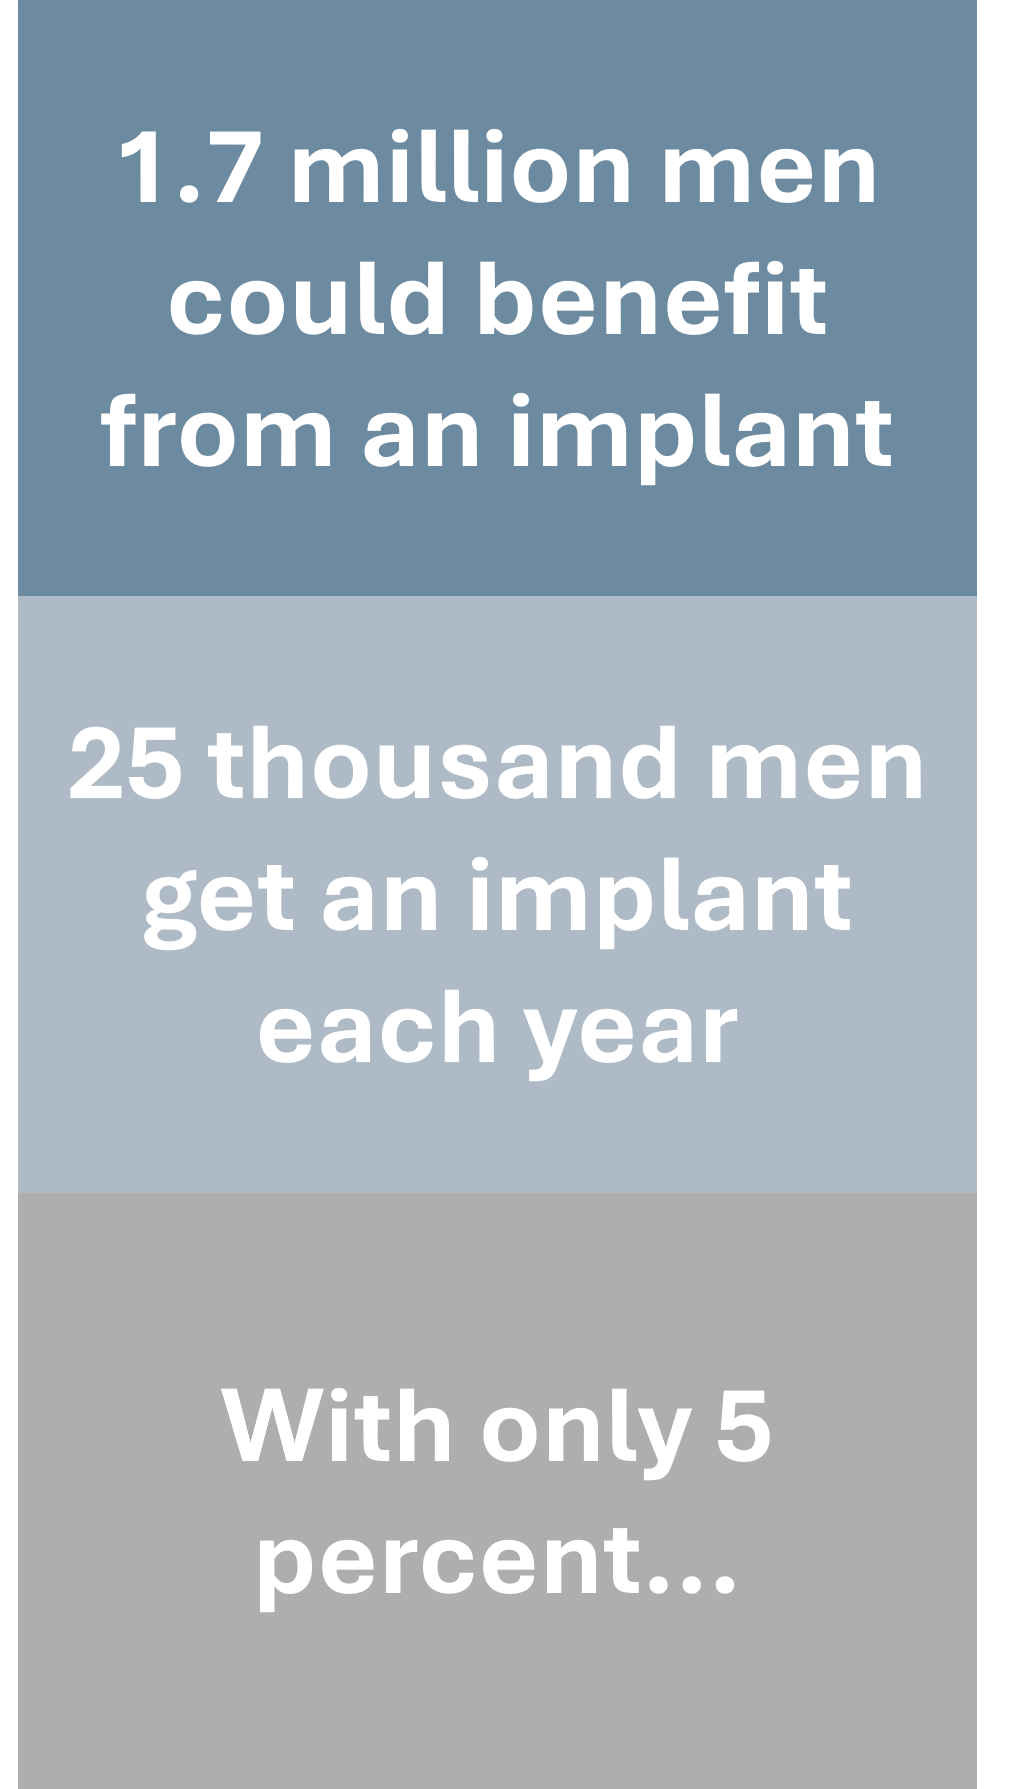
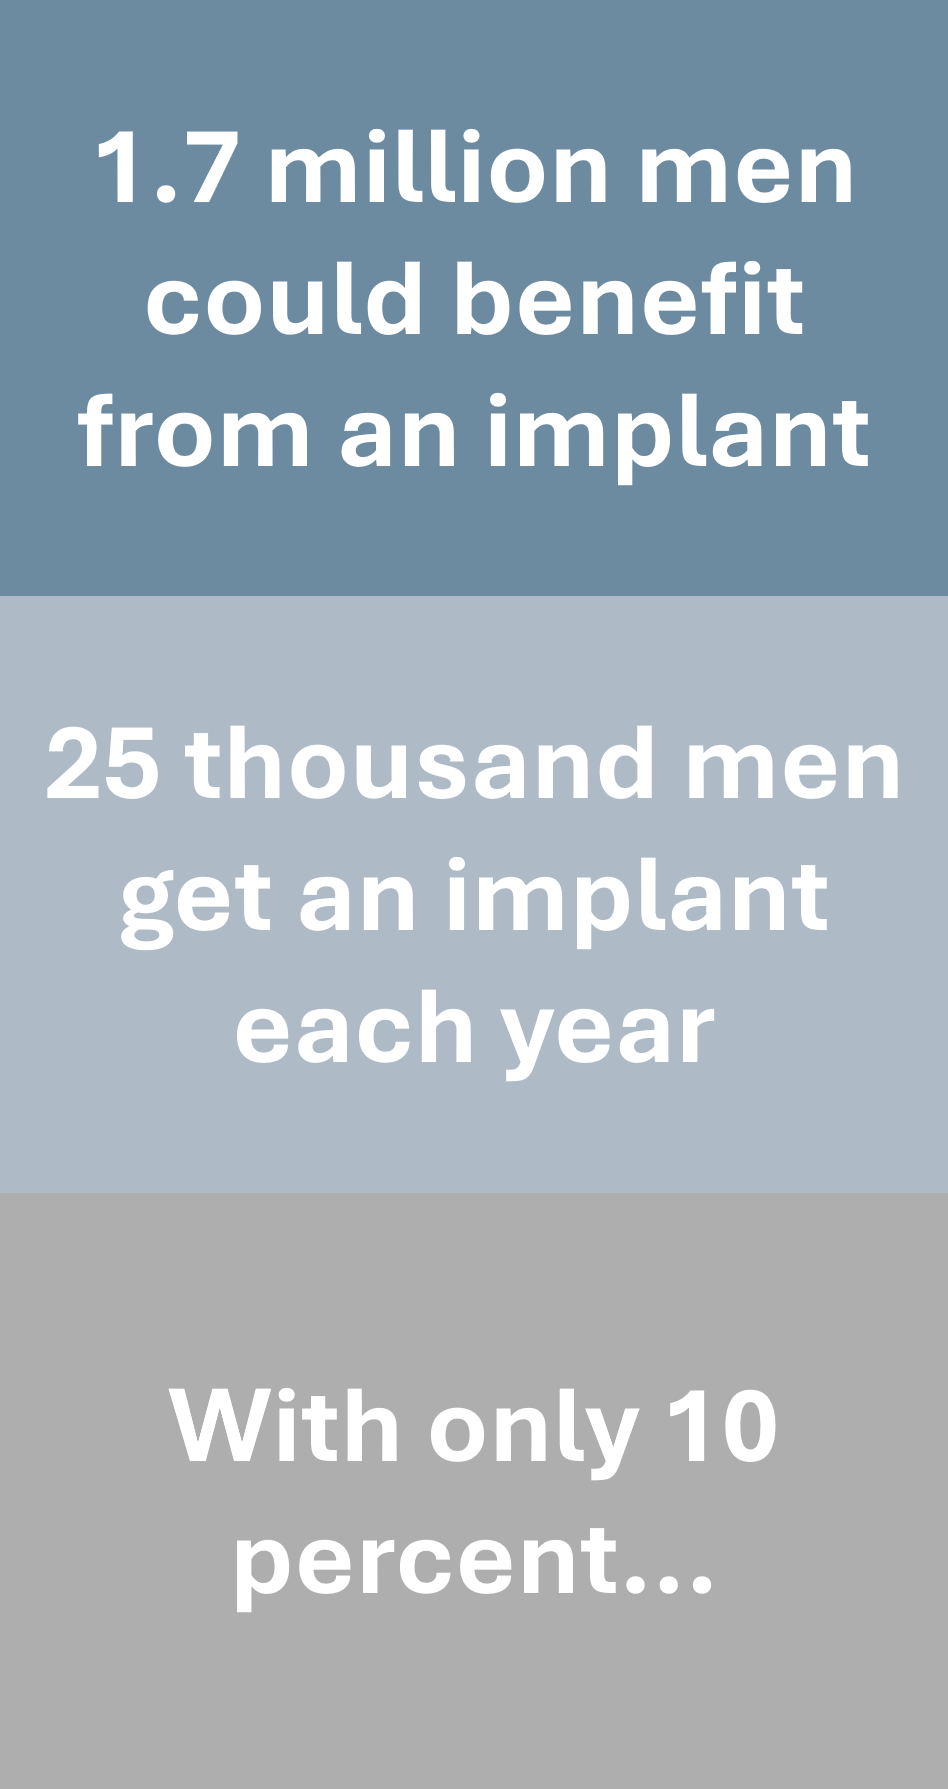
Add files via upload

diff --git a/index.html b/index.html
@@ -137,7 +137,7 @@
         <div class="container">
             <div class="section-title text-left">
                 <h3 style="font-weight: bold;">The Problem</h3>
-                <p>There are only two main medical treatments for erectile dysfunction: medications with numerous negative side effects or risky invasive surgeries that compromise natural bodily functions.</p>
+                <p>Erectile dysfunction is the recurrent inability to acquire or maintain tumescence (another word for erection) of a sufficient rigidity or duration. There are only two main medical treatments for erectile dysfunction: medications with numerous negative side effects or risky invasive surgeries that compromise natural bodily functions.</p>
             </div><!-- end title -->
             <div class="row">
 				<div class="col-md-6">
@@ -212,7 +212,7 @@
                     </div>
                     <div class="col-md-9" style="padding: 30px; min-height: 450px;">
                         <div style="margin: 0; position: absolute; top: 50%; -ms-transform: translateY(-50%); transform: translateY(-50%);">
-                            <h3 style="font-size: 40px; font-weight: 600; color: #ffffff; text-align: center;"><i>With only 5% of men who proceed with the surgery, there is a potential market of $20 million.<sup>2,3,4</sup></i></h3>
+                            <h3 style="font-size: 40px; font-weight: 600; color: #ffffff; text-align: center;"><i>With only 10% of men who proceed with the surgery, there is a potential market of $40 million.<sup>2,3,4</sup></i></h3>
                         </div>
                     </div>
                 </div>
